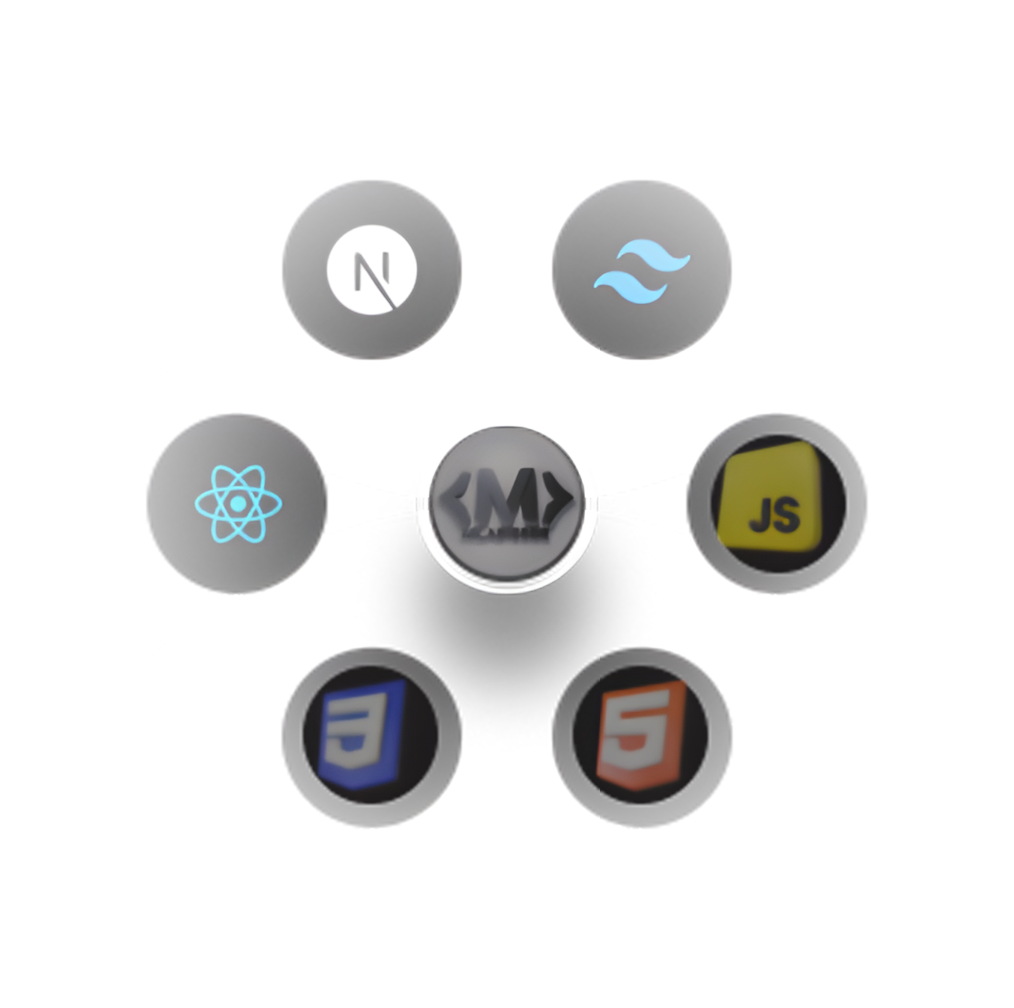
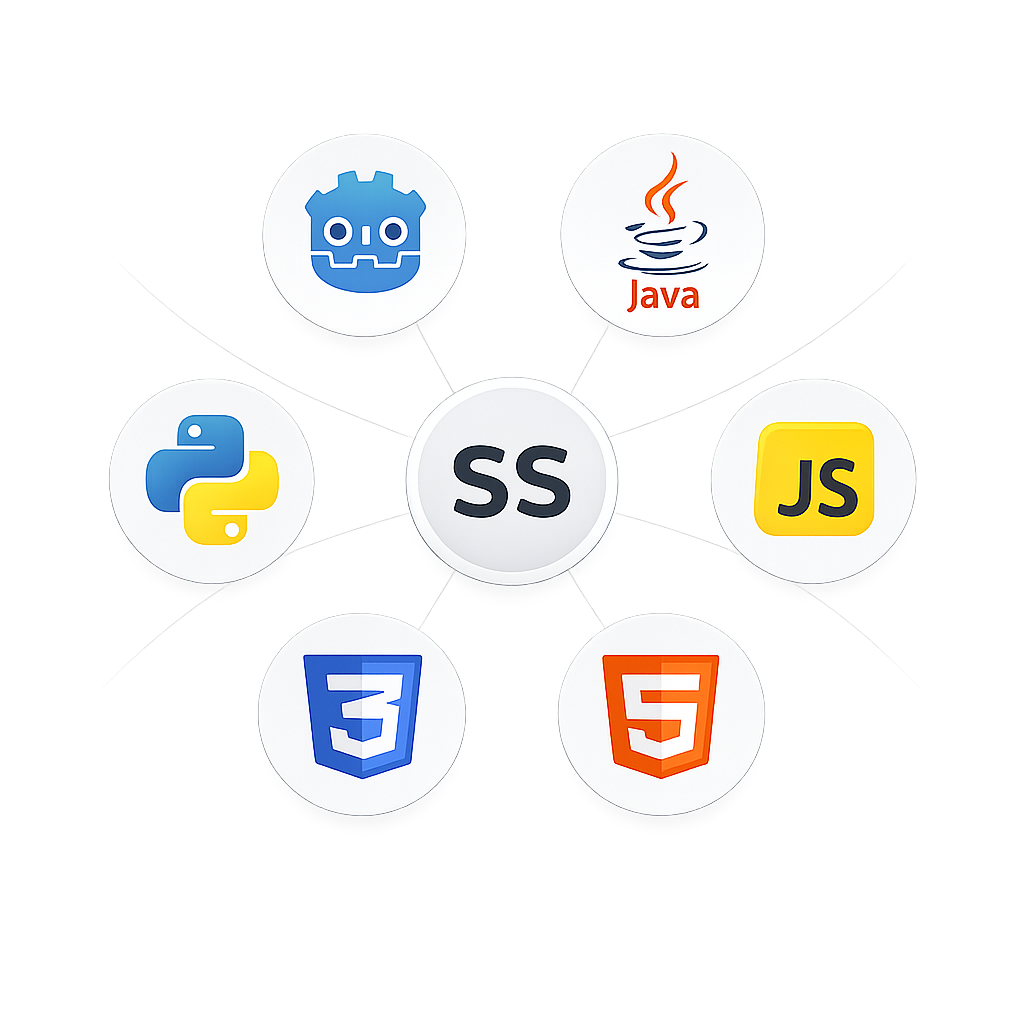
Update portfolio content - modify images, HTML, and styles

diff --git a/index.html b/index.html
@@ -161,7 +161,7 @@
                     <article class="card autoBlur" data-stagger-group="about">
                         <h3 class="card-title">Hi there, I'm Saaeb</h3>
                         <p class="card-text">With 5 years of experience. I have honed my skills in Game Development and Front-end Development creating amazing games and websites that provide a seamless user experience.</p>
-                        <img src="Images/grid1.png" alt="Project overview snapshot" loading="lazy" width="600" height="360">
+                        <img src="Images/cropped_circle_image.png" alt="Project overview snapshot" loading="lazy" width="600" height="360">
                     </article>
 
                     <article class="card autoBlur" data-stagger-group="about">

diff --git a/style.css b/style.css
@@ -525,7 +525,9 @@ main {
     grid-template-columns: repeat(auto-fit, minmax(280px, 1fr));
     gap: var(--space-md);
 }
-
+.about-cards img{
+    max-width: 250px;
+}
 /* Make the first about card larger on wider screens */
 @media (min-width: 992px) {
     .about-cards > .card:first-child {
